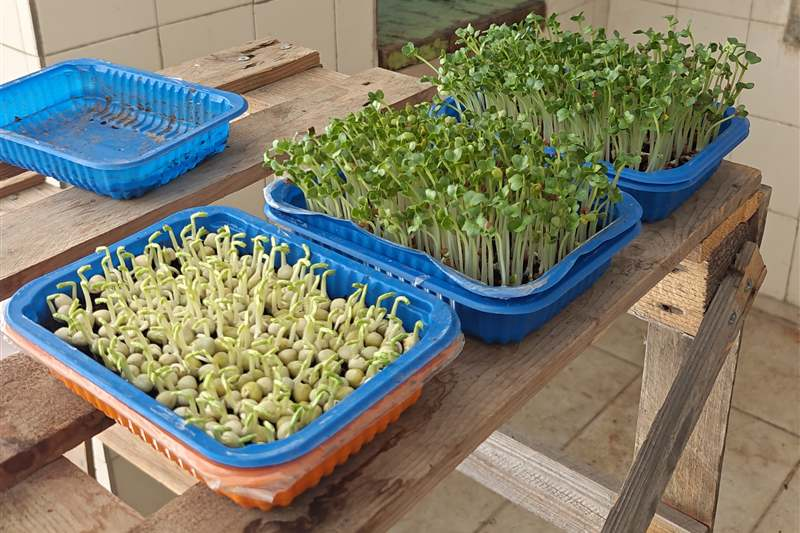
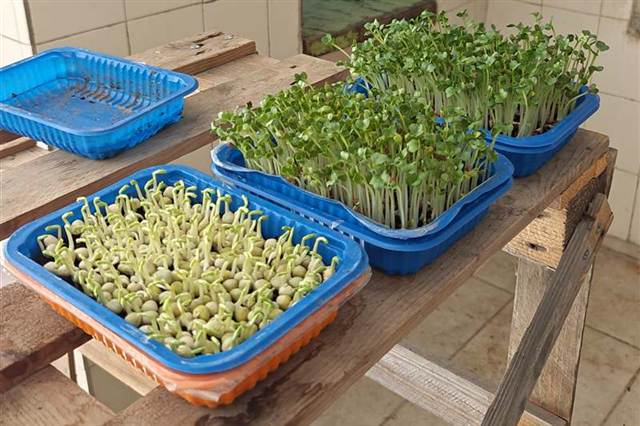
Greece page: date the camp figure, closing photo pair, lighter images
"In early 2025, Zervou Camp held over 3,000 asylum seekers", linked to
the Ministry of Migration and Asylum monthly figures in ELIAMEP Working
Paper 136/2026 (Samos above 3,000 from January to April 2025). La Maison
now distributes the seeds alongside its regular programmes. Two small
photos, the seed stall and the seed bags, close the page side by side.
All Greece photos resaved at 640px to keep the page under 500KB (437KB).

diff --git a/greece.html b/greece.html
@@ -74,7 +74,12 @@
         <h3>Background</h3>
         <div class="prose flow">
           <p>
-            Zervou Camp held over 3,000 asylum seekers in conditions that major
+            <!-- Ministry of Migration and Asylum monthly figures, via ELIAMEP
+                 Working Paper 136/2026, Table 7: Samos was over 3,000 residents
+                 from January (3,937) to April 2025 (3,101), then fell below. -->
+            In early 2025, Zervou Camp
+            <a href="https://www.eliamep.gr/wp-content/uploads/2026/03/SOPEMI-Report-2025_Working-paper-136-EN-FINAL.pdf"
+               target="_blank" rel="noopener">held over 3,000 asylum seekers</a> in conditions that major
             NGOs have described as prison-like. Residents receive no cash
             assistance, and through interviews we found they received virtually
             no fruit or vegetables. 77.8% of camp residents we spoke to
@@ -96,7 +101,7 @@
           <figure class="figure figure--aside figure--right">
             <img src="img/greece-farm-2025.jpg"
                  alt="Trays of microgreens at different stages of growth on benches built from pallets and a metal shelving unit, with water bottles, crates and bowls of seed beneath."
-                 width="1000" height="667">
+                 width="640" height="427">
             <figcaption>The outdoor set-up, 2025</figcaption>
           </figure>
           <p>
@@ -204,7 +209,7 @@
           <figure class="figure figure--aside figure--left">
             <img src="img/greece-foodbox-trial.jpg" loading="lazy"
                  alt="Pea and radish microgreens growing in blue plastic food boxes on a wooden trestle table, next to an empty box."
-                 width="800" height="533">
+                 width="640" height="426">
             <figcaption>Testing pea and radish in food boxes, October 2026</figcaption>
           </figure>
           <p>
@@ -221,14 +226,15 @@
           <figure class="figure figure--aside figure--right">
             <img src="img/greece-seed-video.jpg" loading="lazy"
                  alt="A member of our team showing a microgreens video on a phone to two men at the seed stall. The men's faces are blurred."
-                 width="800" height="533">
+                 width="640" height="426">
             <figcaption>Watching the video at the seed stall, October 2026</figcaption>
           </figure>
           <p>
             With the tutorials ready, we enlisted the help of La Maison to
             distribute the seeds freely to camp residents. We gave out 64 sets
             of seed over the first two afternoons of distributions, and La
-            Maison now runs the stall once a week without us present.
+            Maison now distributes the seeds alongside its regular programmes
+            without us present.
           </p>
           <p class="link-row">
             <a class="link-arrow"
@@ -260,6 +266,22 @@
         <p class="link-row">
           <a class="link-arrow" href="docs/microgreens-for-ngos.html">Read the invitation to pilot →</a>
         </p>
+
+        <!-- Two small photos to close the page, side by side at every width. -->
+        <div class="figure-pair">
+          <figure class="figure">
+            <img src="img/greece-stall-signs.jpg" loading="lazy"
+                 alt="Trays of pea and radish microgreens on a table behind cardboard signs reading: free seeds, grow in 7 to 12 days, more vitamins, in English, Arabic, Bengali and French."
+                 width="640" height="320">
+            <figcaption>The seed stall on Samos, November 2026</figcaption>
+          </figure>
+          <figure class="figure">
+            <img src="img/greece-seed-bags.jpg" loading="lazy"
+                 alt="Two clear 2kg bags of seed, one of dried peas and one of radish seed, labelled by hand."
+                 width="640" height="320">
+            <figcaption>Seed ready to send: 2kg each of pea and radish</figcaption>
+          </figure>
+        </div>
       </div>
     </div>
   </section>

diff --git a/css/style.css b/css/style.css
@@ -1039,6 +1039,15 @@ a:hover {
 /* For a photograph that wants to sit in a little from the column edges. */
 .figure--narrow { max-width: 40rem; }
 
+/* Two small photos side by side, at every width: at the foot of greece.html. */
+.figure-pair {
+  display: grid;
+  grid-template-columns: 1fr 1fr;
+  gap: var(--sp-4);
+  max-width: var(--measure);
+}
+.figure-pair .figure img { aspect-ratio: 2 / 1; }
+
 /* A photo set beside its text, alternating sides down greece.html, so the
    page reads as text with pictures rather than a stack of large photos.
    Full width on a phone, where a 40% photo would be a thumbnail. The
